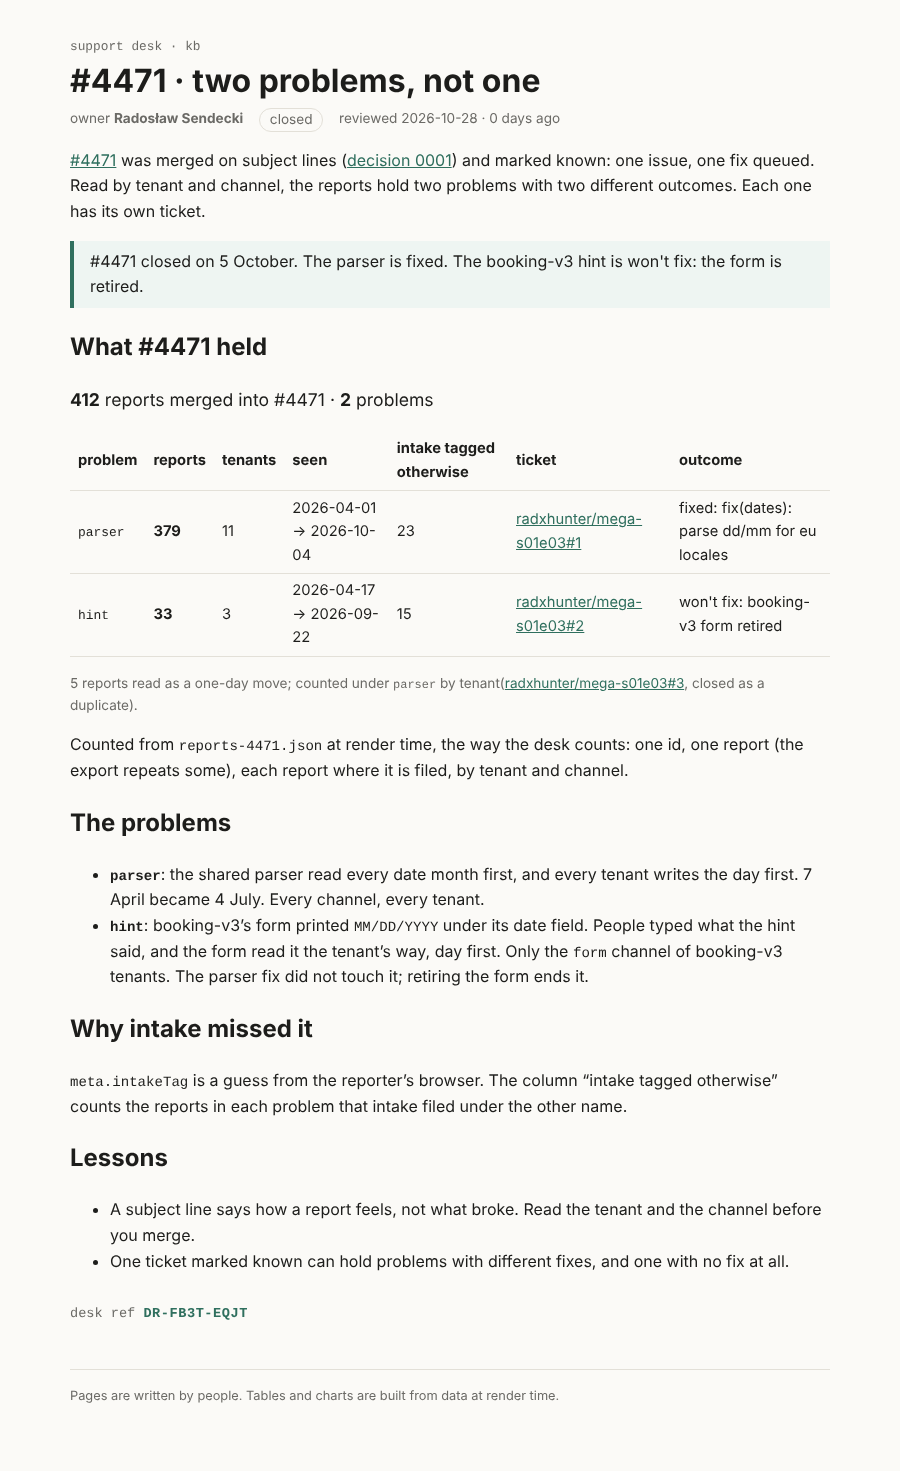
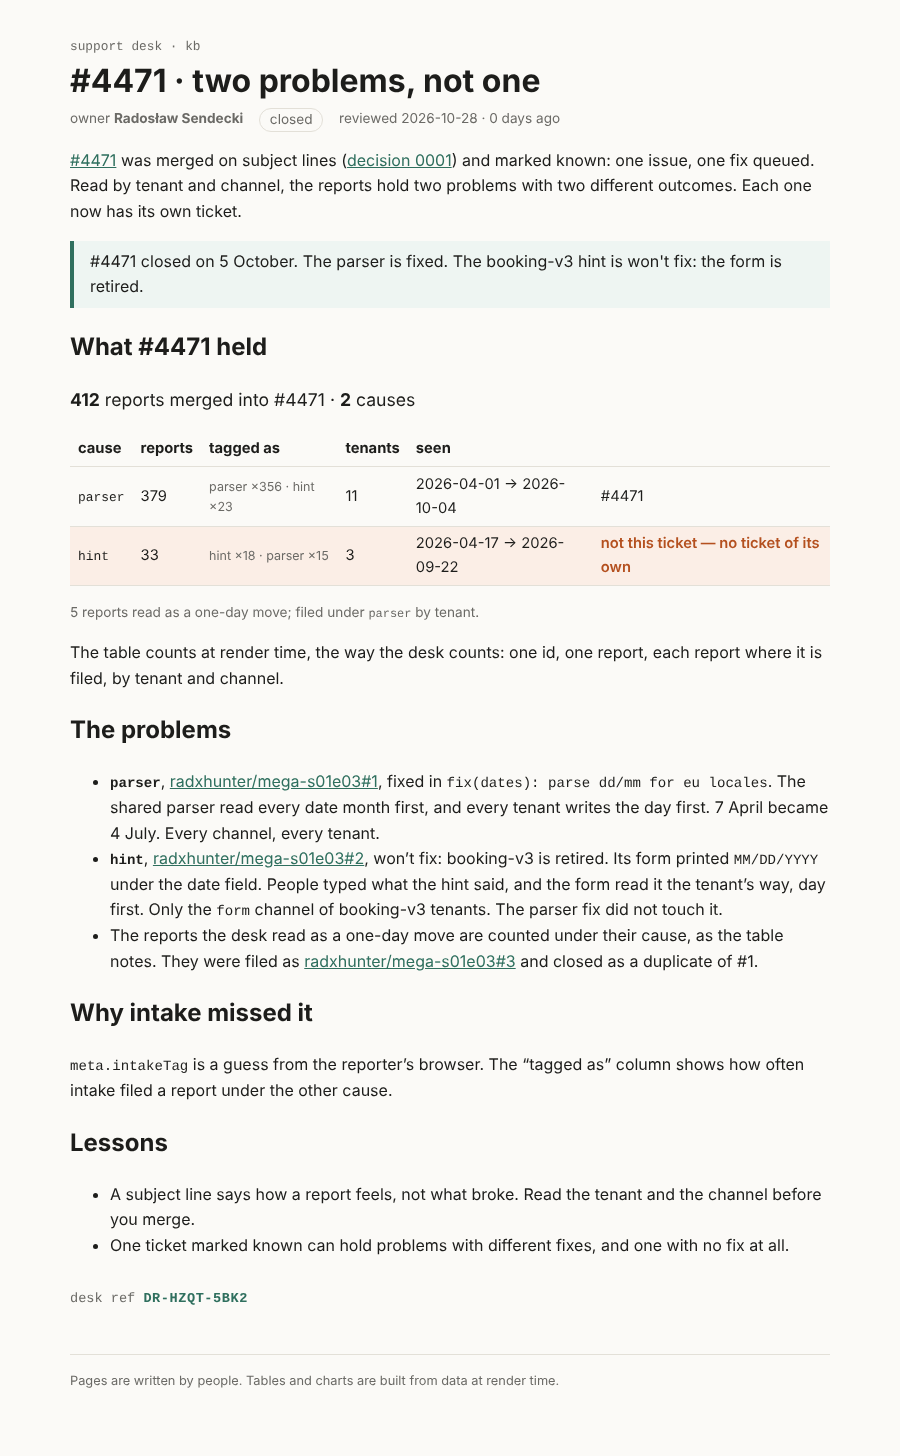
Build the kb page only from the desk's own components
The desk renders pages with its kb as exported, so the page now uses
CauseTable, Callout and RenderStamp only; ProblemTable and problems.ts are gone.

Claude-Session: https://claude.ai/code/session_019v8B3CJVhWkfkcW2CFDabm

diff --git a/support-kb/rendered/4471-split.html b/support-kb/rendered/4471-split.html
@@ -6,39 +6,43 @@
 		<link href="../../_app/immutable/chunks/B2Ul7l_u.js" rel="modulepreload">
 		<link href="../../_app/immutable/chunks/BCPXOG7W.js" rel="modulepreload">
 		<link href="../../_app/immutable/chunks/Dh1V97Jm.js" rel="modulepreload">
-		<link href="../../_app/immutable/entry/app.DhVshXyr.js" rel="modulepreload">
+		<link href="../../_app/immutable/entry/app.DAzR_JeD.js" rel="modulepreload">
 		<link href="../../_app/immutable/nodes/0.C9KfiiPz.js" rel="modulepreload">
 		<link href="../../_app/immutable/chunks/DK3Fl9T5.js" rel="modulepreload">
-		<link href="../../_app/immutable/nodes/5.Cst0LZmu.js" rel="modulepreload">
-		<link href="../../_app/immutable/chunks/BoLZxQvC.js" rel="modulepreload">
+		<link href="../../_app/immutable/nodes/5.C9CrrFmz.js" rel="modulepreload">
+		<link href="../../_app/immutable/chunks/CgIoB4O0.js" rel="modulepreload">
 		<link href="../../_app/immutable/chunks/BTPwLomz.js" rel="modulepreload">
-		<link href="../../_app/immutable/chunks/CVBzP17p.js" rel="modulepreload">
+		<link href="../../_app/immutable/chunks/D_eX76ox.js" rel="modulepreload">
 		<link href="../../_app/immutable/chunks/BIy4WKJS.js" rel="modulepreload">
 		<!--e2jw2j--><!----><title>#4471 · two problems, not one · support kb</title>
 		<link href="../../_app/immutable/assets/runbook.COyw0cbZ.css" rel="stylesheet">
 		<link href="../../_app/immutable/assets/Callout.AbLv9dM_.css" rel="stylesheet">
-		<link href="../../_app/immutable/assets/_page.l10rmzXo.css" rel="stylesheet"></head>
+		<link href="../../_app/immutable/assets/CauseTable.DuKfINX_.css" rel="stylesheet">
+		<link href="../../_app/immutable/assets/_page.WePi3wDe.css" rel="stylesheet"></head>
   <body data-sveltekit-preload-data="hover"><div style="display: contents"><!--[--><!--[--><!--[0--><!--[--><!--[--><!--[-1--><!--[--><div class="kb svelte-e2jw2j"><header><a class="crumb svelte-e2jw2j" href="/kb">support desk · kb</a> <h1 class="svelte-e2jw2j">#4471 · two problems, not one</h1> <p class="meta svelte-e2jw2j"><span>owner <b>Radosław Sendecki</b></span> <span class="status closed svelte-e2jw2j">closed</span> <span class="svelte-e2jw2j">reviewed 2026-10-28 · 0 days ago</span></p></header> <!--[-1--><!--]--> <main><p><a href="/kb/incidents/4471">#4471</a> was merged on subject lines (<a href="/kb/decisions/0001-dedupe-by-subject">decision 0001</a>)
 and marked known: one issue, one fix queued. Read by tenant and channel, the reports hold two
-problems with two different outcomes. Each one has its own ticket.</p> <aside class="note svelte-17bri61"><!---->#4471 closed on 5 October. The parser is fixed. The booking-v3 hint is won't fix: the form is retired.<!----></aside><!----> <h2>What #4471 held</h2> <p class="sum svelte-1op6c6"><strong>412</strong> reports merged into #4471 · <strong>2</strong> problems</p> <table><thead><tr><th>problem</th><th>reports</th><th>tenants</th><th>seen</th><th>intake tagged otherwise</th><th>ticket</th><th>outcome</th></tr></thead><tbody><!--[--><tr><td><code>parser</code></td><td><strong>379</strong></td><td>11</td><td>2026-04-01 → 2026-10-04</td><td>23</td><td><!--[0--><a href="https://github.com/radxhunter/mega-s01e03/issues/1">radxhunter/mega-s01e03#1</a><!--]--></td><td>fixed: fix(dates): parse dd/mm for eu locales</td></tr><tr><td><code>hint</code></td><td><strong>33</strong></td><td>3</td><td>2026-04-17 → 2026-09-22</td><td>15</td><td><!--[0--><a href="https://github.com/radxhunter/mega-s01e03/issues/2">radxhunter/mega-s01e03#2</a><!--]--></td><td>won't fix: booking-v3 form retired</td></tr><!--]--></tbody></table> <!--[--><p class="note svelte-1op6c6">5 reports read as a one-day move; counted under <code>parser</code> by tenant<!--[0-->(<a href="https://github.com/radxhunter/mega-s01e03/issues/3">radxhunter/mega-s01e03#3</a>, closed as a duplicate)<!--]-->.</p><!--]--><!----> <p>Counted from <code>reports-4471.json</code> at render time, the way the desk counts: one id, one report (the
-export repeats some), each report where it is filed, by tenant and channel.</p> <h2>The problems</h2> <ul><li><strong><code>parser</code></strong>: the shared parser read every date month first, and every tenant writes the day
-first. 7 April became 4 July. Every channel, every tenant.</li> <li><strong><code>hint</code></strong>: booking-v3’s form printed <code>MM/DD/YYYY</code> under its date field. People typed what the hint
-said, and the form read it the tenant’s way, day first. Only the <code>form</code> channel of booking-v3
-tenants. The parser fix did not touch it; retiring the form ends it.</li></ul> <h2>Why intake missed it</h2> <p><code>meta.intakeTag</code> is a guess from the reporter’s browser. The column “intake tagged otherwise” counts
-the reports in each problem that intake filed under the other name.</p> <h2>Lessons</h2> <ul><li>A subject line says how a report feels, not what broke. Read the tenant and the channel before you merge.</li> <li>One ticket marked known can hold problems with different fixes, and one with no fix at all.</li></ul> <!--[0--><p class="stamp svelte-1280m42">desk ref <b class="svelte-1280m42">DR-FB3T-EQJT</b></p><!--]--><!----><!----></main> <footer class="svelte-e2jw2j">Pages are written by people. Tables and charts are built from data at render time.</footer></div><!--]--><!--]--><!--]--><!----><!--]--><!--]--><!--]--><!----> <!--[-1--><!--]--><!--]-->
+problems with two different outcomes. Each one now has its own ticket.</p> <aside class="note svelte-17bri61"><!---->#4471 closed on 5 October. The parser is fixed. The booking-v3 hint is won't fix: the form is retired.<!----></aside><!----> <h2>What #4471 held</h2> <p class="sum svelte-12oyimm"><strong>412</strong> reports merged into #4471 · <strong>2</strong> causes</p> <table><thead><tr><th>cause</th><th>reports</th><th>tagged as</th><th>tenants</th><th>seen</th><th></th></tr></thead><tbody><!--[--><tr class="svelte-12oyimm"><td class="svelte-12oyimm"><code>parser</code></td><td class="svelte-12oyimm">379</td><td class="tags svelte-12oyimm">parser ×356 · hint ×23</td><td class="svelte-12oyimm">11</td><td class="svelte-12oyimm">2026-04-01 → 2026-10-04</td><td class="svelte-12oyimm">#4471</td></tr><tr class="svelte-12oyimm wrong"><td class="svelte-12oyimm"><code>hint</code></td><td class="svelte-12oyimm">33</td><td class="tags svelte-12oyimm">hint ×18 · parser ×15</td><td class="svelte-12oyimm">3</td><td class="svelte-12oyimm">2026-04-17 → 2026-09-22</td><td class="svelte-12oyimm">not this ticket — no ticket of its own</td></tr><!--]--></tbody></table> <!--[--><!--[0--><p class="note svelte-12oyimm">5 reports read as a one-day move; filed under <code>parser</code> by tenant.</p><!--]--><!--[-1--><!--]--><!--]--><!----> <p>The table counts at render time, the way the desk counts: one id, one report, each report where it
+is filed, by tenant and channel.</p> <h2>The problems</h2> <ul><li><strong><code>parser</code></strong>, <a href="https://github.com/radxhunter/mega-s01e03/issues/1" rel="nofollow">radxhunter/mega-s01e03#1</a>,
+fixed in <code>fix(dates): parse dd/mm for eu locales</code>. The shared parser read every date month first,
+and every tenant writes the day first. 7 April became 4 July. Every channel, every tenant.</li> <li><strong><code>hint</code></strong>, <a href="https://github.com/radxhunter/mega-s01e03/issues/2" rel="nofollow">radxhunter/mega-s01e03#2</a>,
+won’t fix: booking-v3 is retired. Its form printed <code>MM/DD/YYYY</code> under the date field. People typed
+what the hint said, and the form read it the tenant’s way, day first. Only the <code>form</code> channel of
+booking-v3 tenants. The parser fix did not touch it.</li> <li>The reports the desk read as a one-day move are counted under their cause, as the table notes.
+They were filed as <a href="https://github.com/radxhunter/mega-s01e03/issues/3" rel="nofollow">radxhunter/mega-s01e03#3</a> and closed as a duplicate of #1.</li></ul> <h2>Why intake missed it</h2> <p><code>meta.intakeTag</code> is a guess from the reporter’s browser. The “tagged as” column shows how often
+intake filed a report under the other cause.</p> <h2>Lessons</h2> <ul><li>A subject line says how a report feels, not what broke. Read the tenant and the channel before you merge.</li> <li>One ticket marked known can hold problems with different fixes, and one with no fix at all.</li></ul> <!--[0--><p class="stamp svelte-1280m42">desk ref <b class="svelte-1280m42">DR-HZQT-5BK2</b></p><!--]--><!----><!----></main> <footer class="svelte-e2jw2j">Pages are written by people. Tables and charts are built from data at render time.</footer></div><!--]--><!--]--><!--]--><!----><!--]--><!--]--><!--]--><!----> <!--[-1--><!--]--><!--]-->
 			
 			<script>
 				{
-					__sveltekit_95ed5e = {
+					__sveltekit_c704q8 = {
 						base: new URL("../..", location).pathname.slice(0, -1),
-						version: "1793193216234"
+						version: "1793193273994"
 					};
 
 					const element = document.currentScript.parentElement;
 
 					import("../../_app/immutable/entry/start.CH5w6lId.js").then(async (kit) => {
-						kit.init(__sveltekit_95ed5e);
-						const app = await import("../../_app/immutable/entry/app.DhVshXyr.js");
+						kit.init(__sveltekit_c704q8);
+						const app = await import("../../_app/immutable/entry/app.DAzR_JeD.js");
 						kit.start(app, element, {
 							node_ids: [0, 5],
 							data: [null,null],
